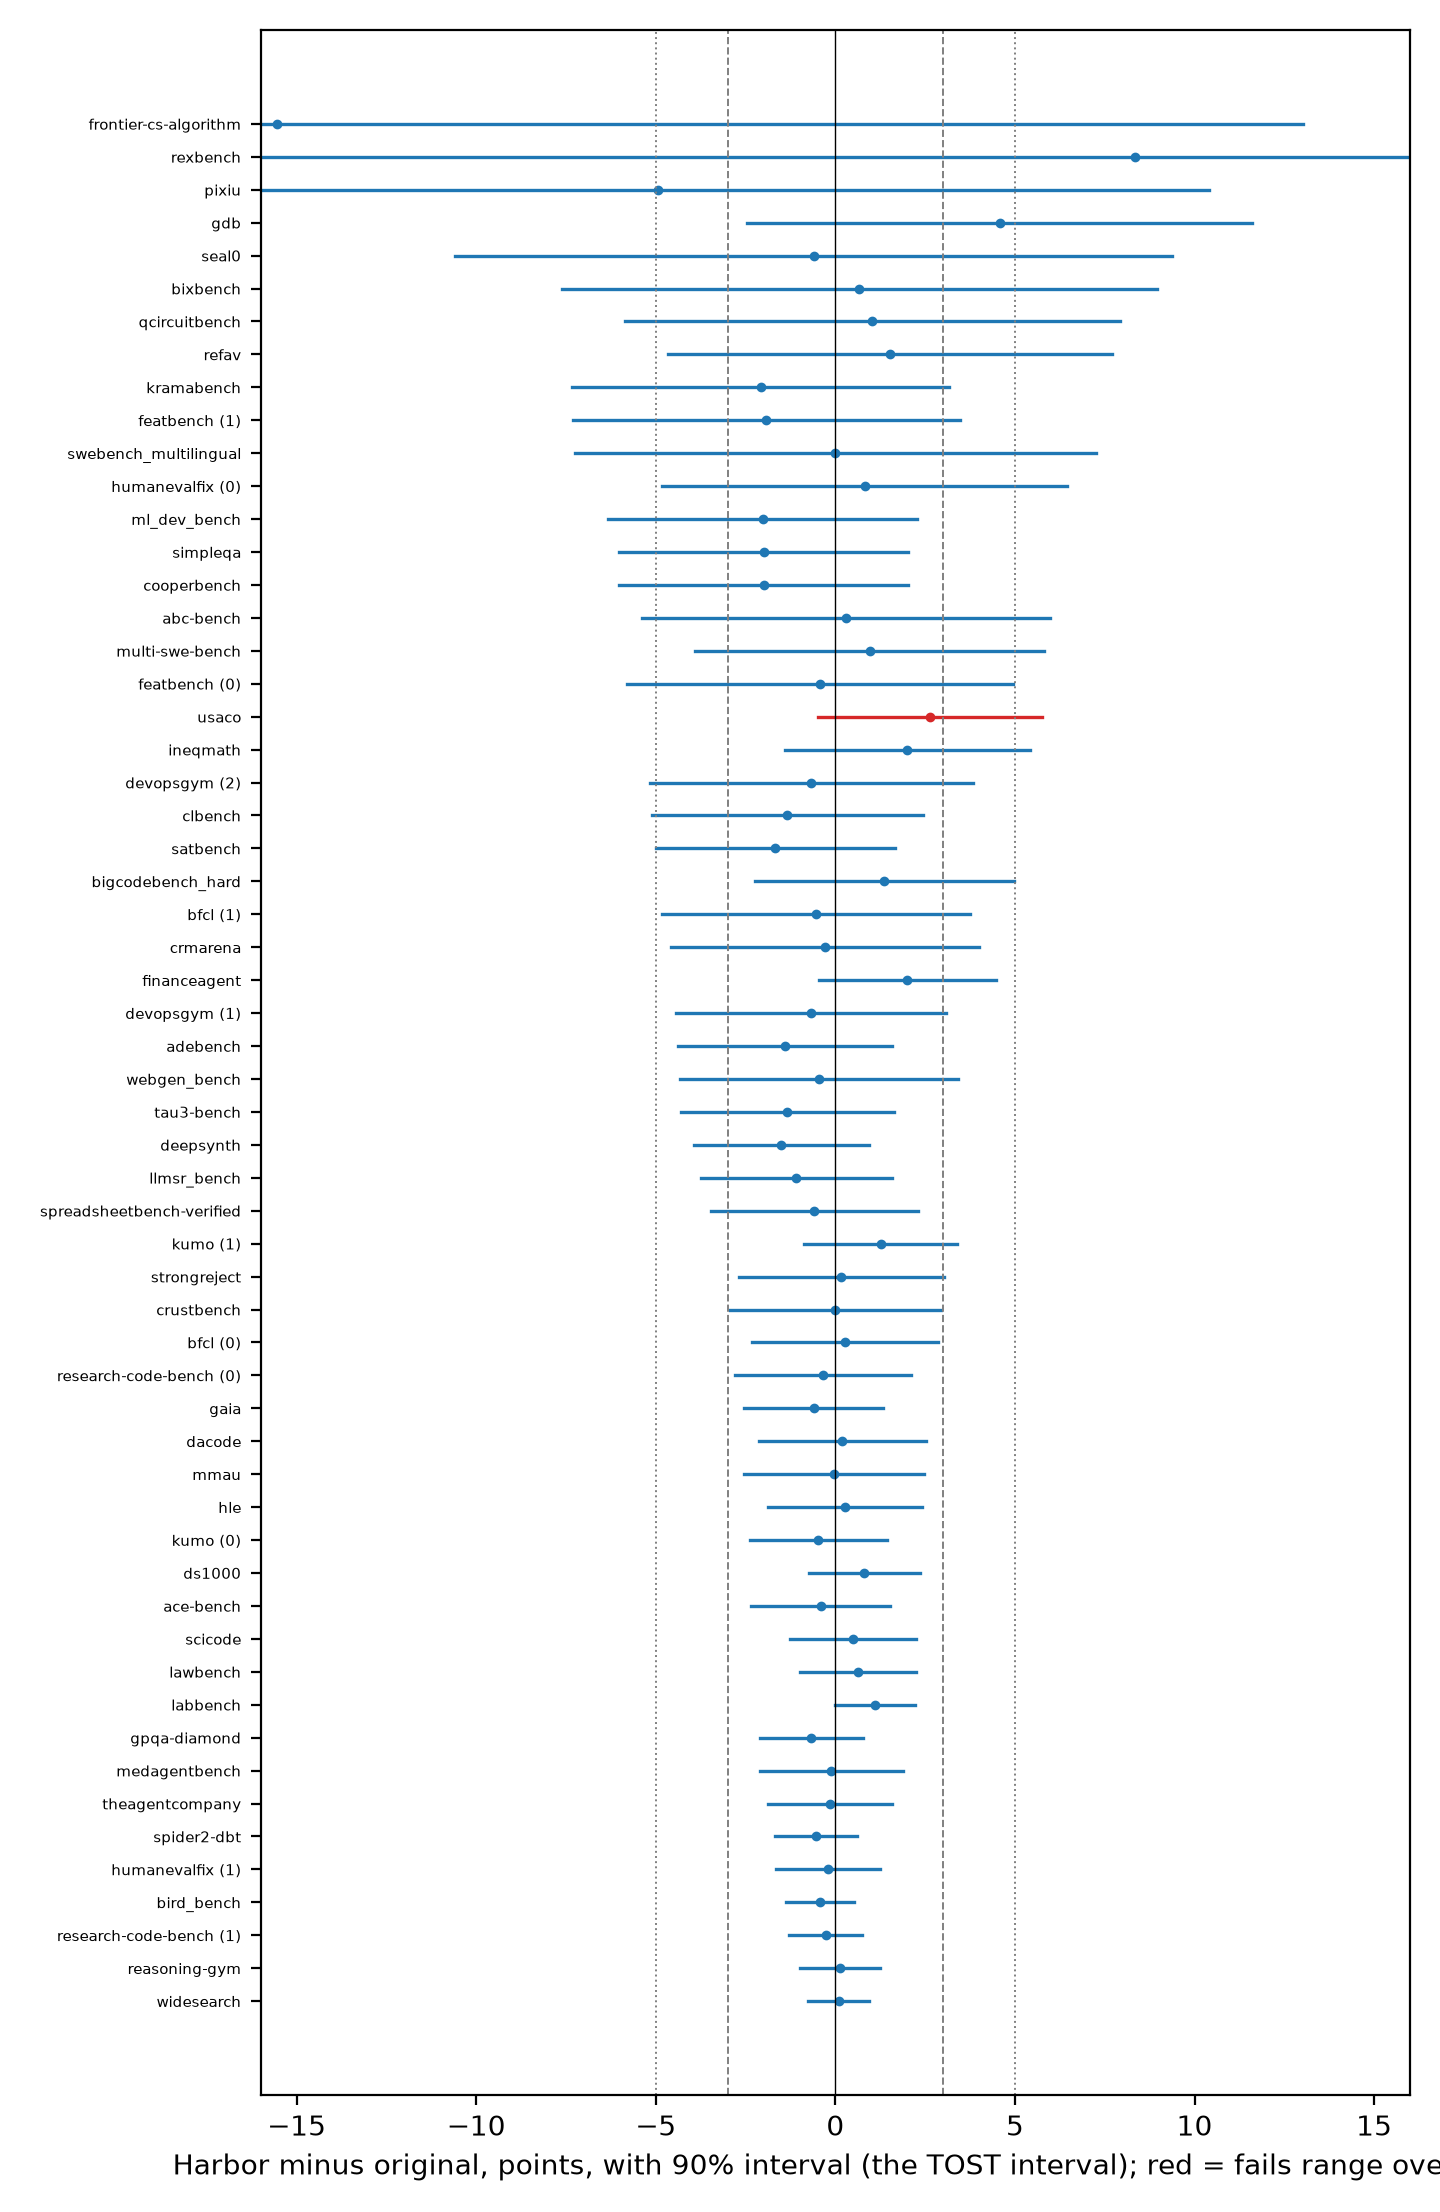
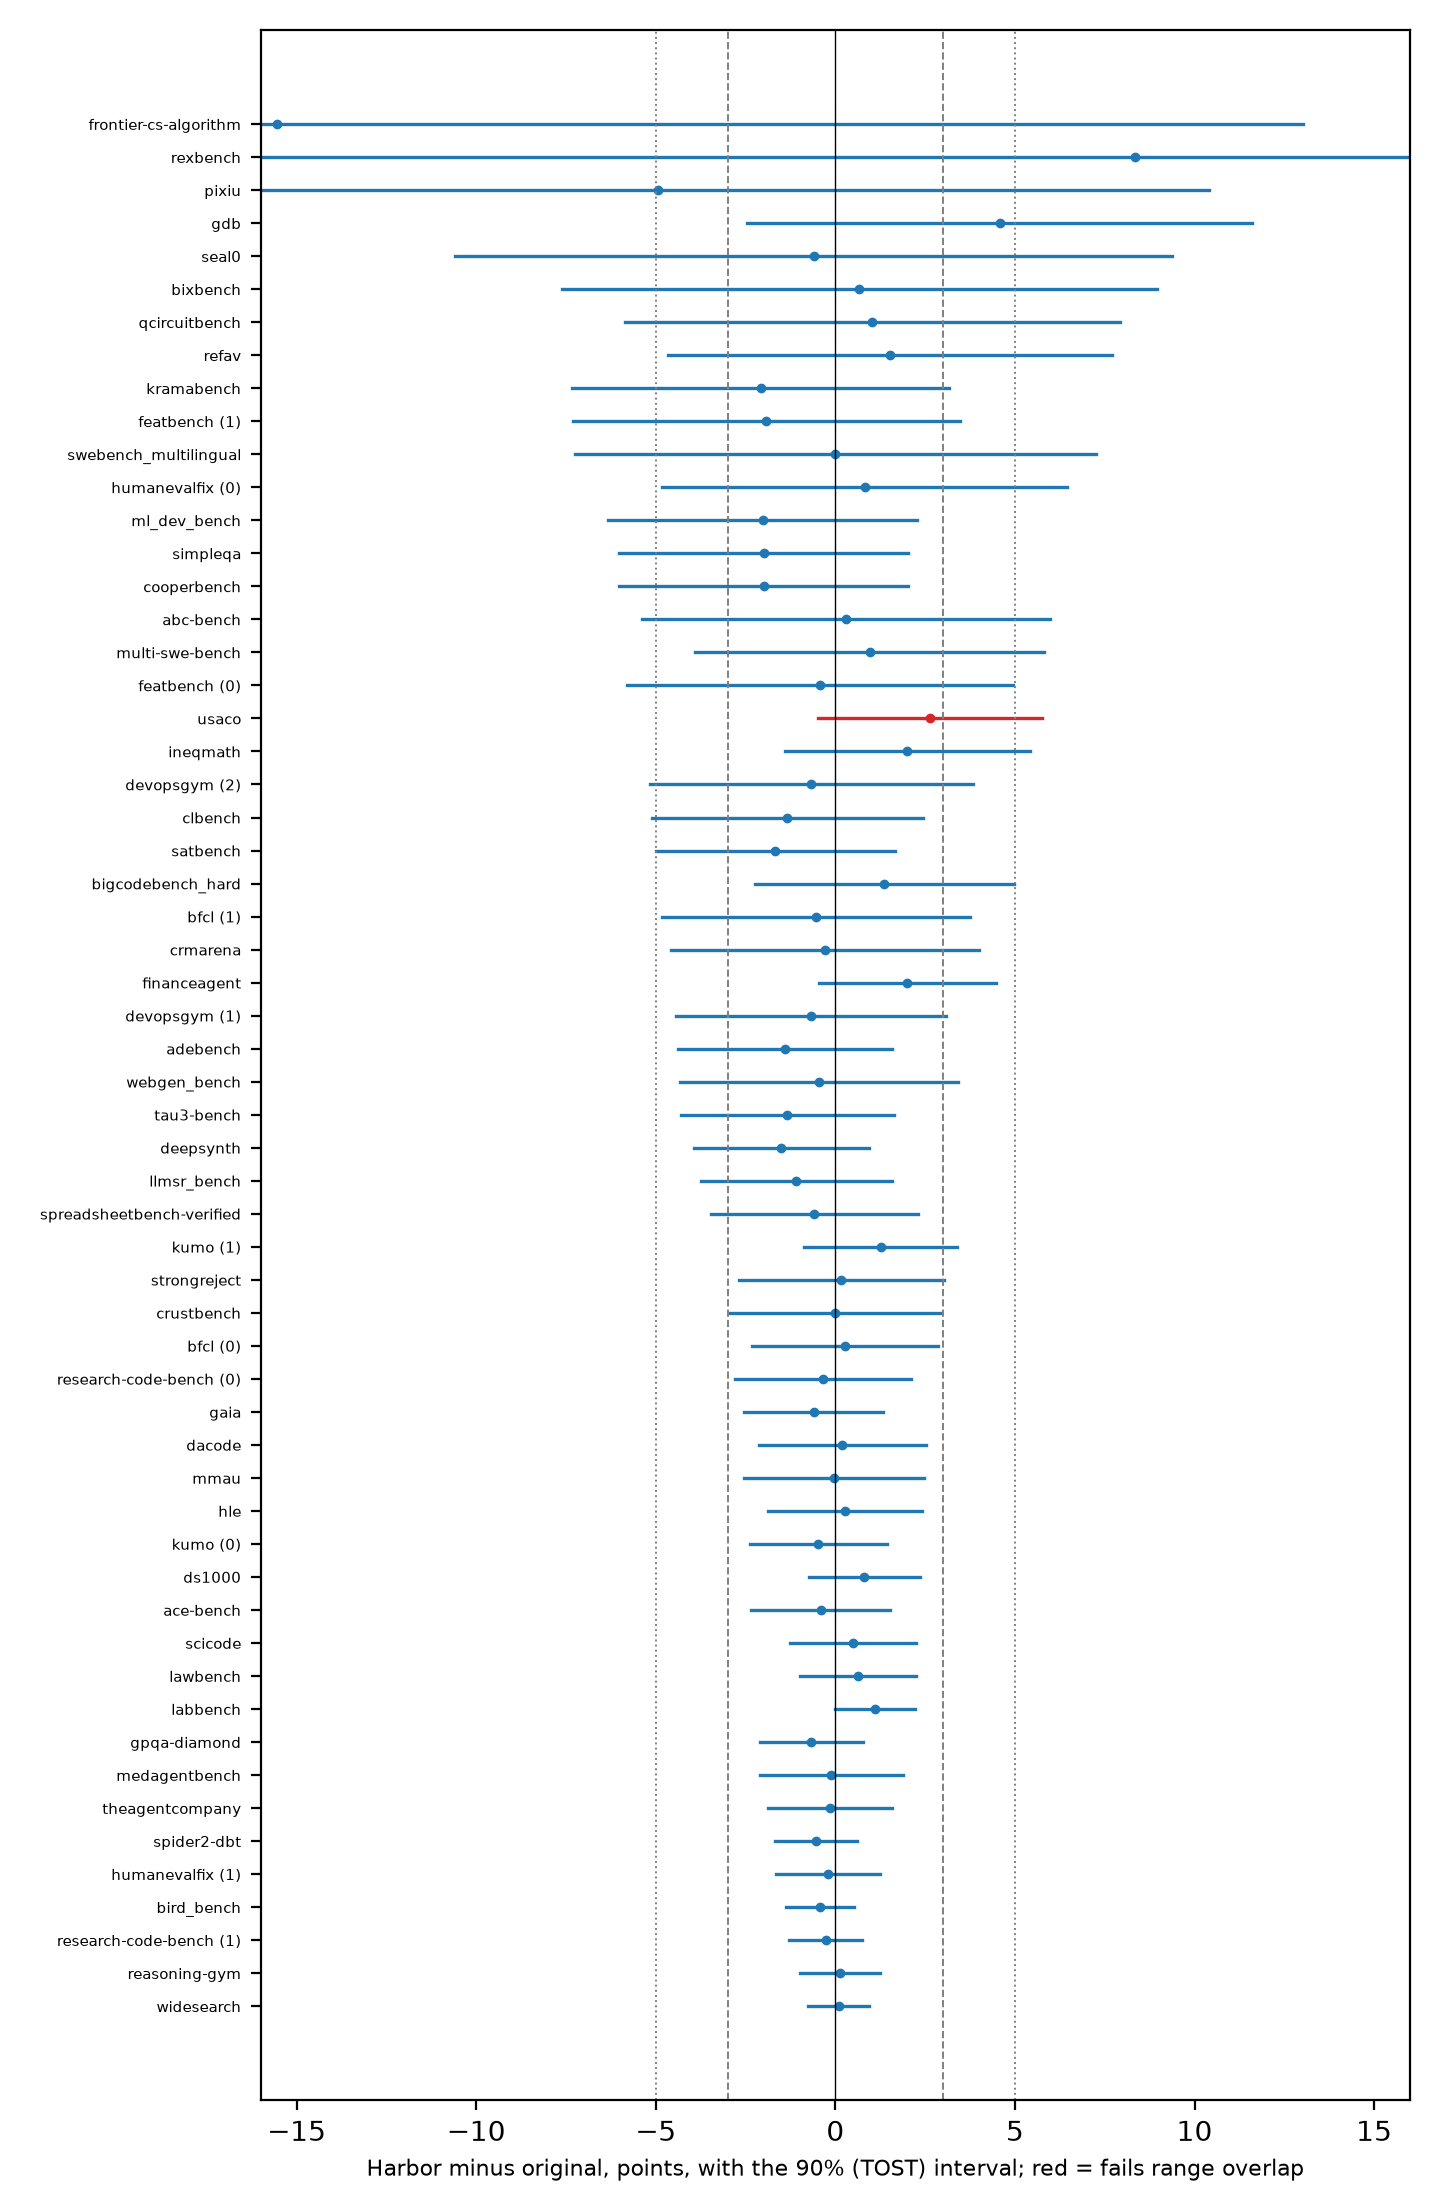
RQ2 figure: shorten the axis label

diff --git a/scripts/p2_rq2_evidence.py b/scripts/p2_rq2_evidence.py
@@ -158,7 +158,7 @@ for m, ls in ((3, "--"), (5, ":")):
     ax.axvline(m, color="grey", ls=ls, lw=0.7); ax.axvline(-m, color="grey", ls=ls, lw=0.7)
 ax.axvline(0, color="black", lw=0.5)
 ax.set_yticks(y); ax.set_yticklabels([f"{r['adapter']} ({r['exp']})" if sum(1 for q in hs if q['adapter'] == r['adapter']) > 1 else r["adapter"] for r in hs], fontsize=5.5)
-ax.set_xlabel("Harbor minus original, points, with 90% interval (the TOST interval); red = fails range overlap")
+ax.set_xlabel("Harbor minus original, points, with the 90% (TOST) interval; red = fails range overlap", fontsize=8)
 ax.set_xlim(-16, 16)
 fig.tight_layout(); fig.savefig(os.path.join(p2, "figures", "fig_rq2_margins.png"), dpi=200); fig.savefig(os.path.join(p2, "figures", "fig_rq2_margins.pdf"))
 
